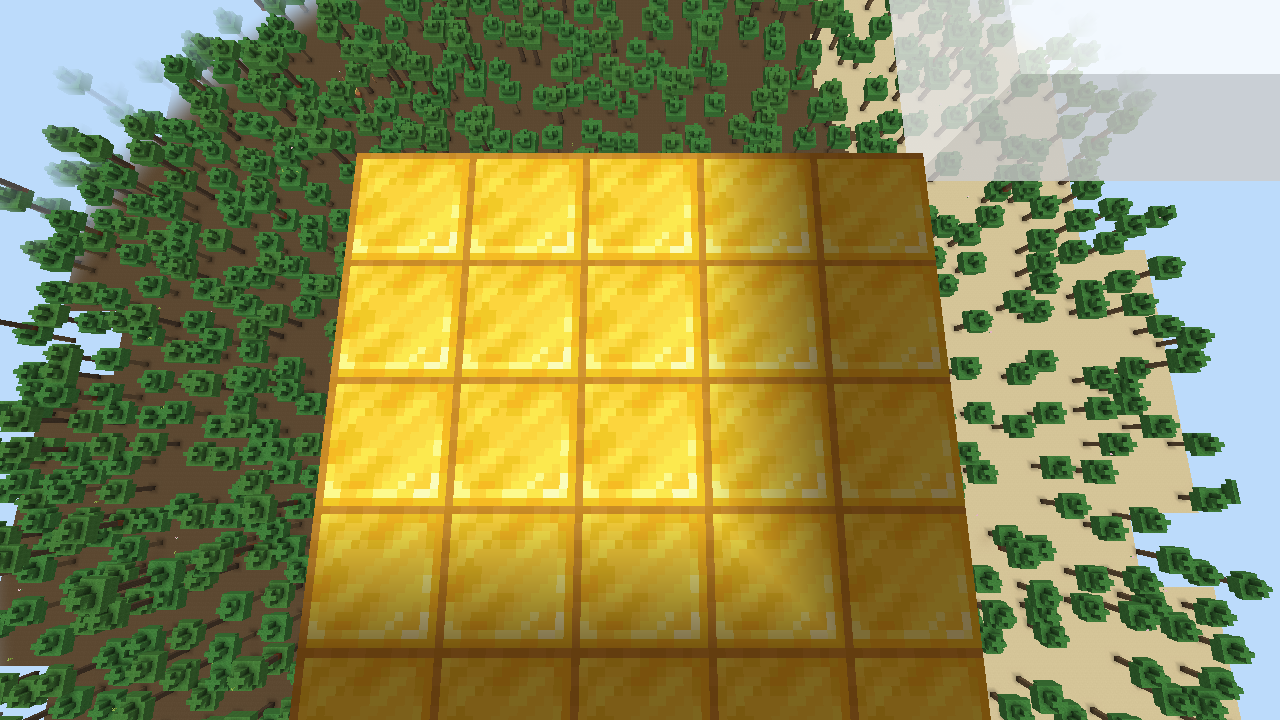
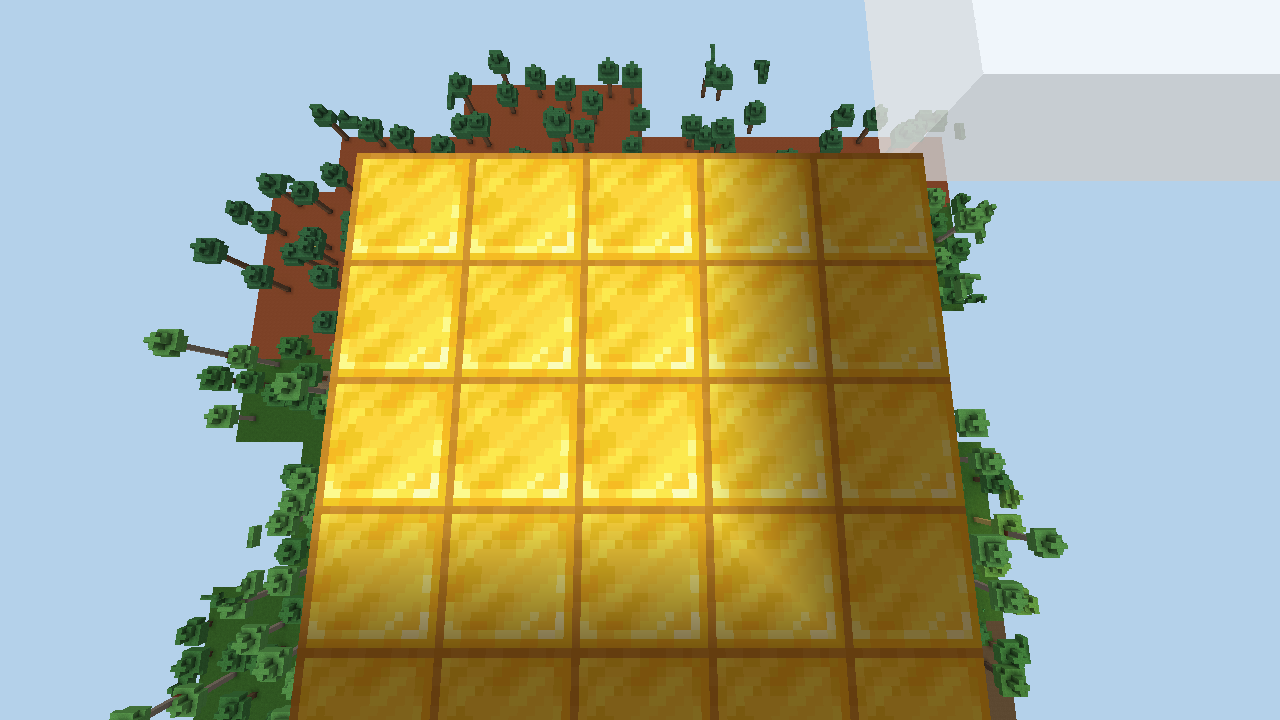
ci(captures): verification des entites deplacee apres les scenes (client relance)

diff --git a/tools/dev/captures/captures.py b/tools/dev/captures/captures.py
@@ -476,33 +476,6 @@ def main() -> int:
     commande("execute in cambocraft:cambodia run data get entity Cambocraft Pos")
     time.sleep(2)
 
-    # --- verification des systemes : entites et commande /cambocraft ---
-    # Le bloc d'or de la sanite doit disparaitre, sinon il reapparait dans les scenes.
-    commande(f"execute in cambocraft:cambodia run fill -2 {Y} -2 2 {Y} 2 air")
-
-    # --- verification des systemes : entites et commande /cambocraft ---
-    # ATTENTION : elle doit rester ENTOUREE d'une remise en etat de la camera et d'un
-    # delai, sinon les captures de scene qui suivent sont noires. Constat experimenté :
-    # sans ce bloc, 4 scenes sur 4 sont correctes ; avec lui sans remise en etat, 4 sur 4
-    # sont noires (250 octets, PNG d'une seule couleur).
-    print("== verification des systemes (entites + commandes) ==")
-    commande(f"execute in cambocraft:cambodia run fill -5 {Y} 0 5 {Y} 10 cambocraft:pierre_du_lotus_polie")
-    commande(f"execute in cambocraft:cambodia run summon cambocraft:artisan 2 {Y+1} 6")
-    commande(f"execute in cambocraft:cambodia run summon cambocraft:gardien -2 {Y+1} 6")
-    for sous in ("statut", "boss", "carnet"):
-        commande(f"cambocraft {sous}")
-    time.sleep(4)
-    commande(f"execute in cambocraft:cambodia run tp @a 0 {Y+4} 14 180 6")
-    time.sleep(10)
-    if capture_ecran(os.path.join(args.sortie, "entites.png")):
-        print("   capture : entites.png")
-    commande("execute in cambocraft:cambodia run kill @e[type=cambocraft:artisan]")
-    commande("execute in cambocraft:cambodia run kill @e[type=cambocraft:gardien]")
-    commande(f"execute in cambocraft:cambodia run fill -5 {Y} 0 5 {Y} 10 air")
-    # Remise en etat : la camera repart d'une position neutre avant la premiere scene.
-    commande(f"execute in cambocraft:cambodia run tp @a 0 {Y+30} 0 0 0")
-    time.sleep(6)
-
     captures = []
     for nom in [s.strip() for s in args.scenes.split(",") if s.strip()]:
         if nom not in SCENES:
@@ -544,6 +517,35 @@ def main() -> int:
         if capture_ecran(cible):
             captures.append(cible)
             print(f"   capture : {cible}")
+
+    # --- verification des systemes : entites et commandes, APRES les scenes ---
+    # L'invocation d'une entite fait tomber le contexte OpenGL logiciel de la CI : toutes
+    # les captures suivantes seraient noires. On la fait donc en dernier, dans un client
+    # fraichement relance, avant l'arret.
+    print("== verification des systemes (client relance) ==")
+    client.kill()
+    time.sleep(3)
+    client = demarrer_client(args.client, args.largeur, args.hauteur, f"127.0.0.1:{PORT}")
+    sortie_client = Flux(client, "client")
+    if not sortie_serveur.attendre(MOTIF_CONNEXION, 120, "reconnexion"):
+        print("   reconnexion impossible : verification des entites ignoree")
+    else:
+        time.sleep(25)
+        commande("gamemode spectator @a")
+        commande(f"execute in cambocraft:cambodia run forceload add -64 -64 64 64")
+        commande(f"execute in cambocraft:cambodia run fill -5 {Y} 0 5 {Y} 10 cambocraft:pierre_du_lotus_polie")
+        commande(f"execute in cambocraft:cambodia run summon cambocraft:artisan 2 {Y+1} 6")
+        commande(f"execute in cambocraft:cambodia run summon cambocraft:gardien -2 {Y+1} 6")
+        for sous in ("statut", "boss", "carnet"):
+            commande(f"cambocraft {sous}")
+        time.sleep(4)
+        commande(f"execute in cambocraft:cambodia run tp @a 0 {Y+4} 14 180 6")
+        time.sleep(10)
+        if capture_ecran(os.path.join(args.sortie, "entites.png")):
+            print("   capture : entites.png")
+        commande("execute in cambocraft:cambodia run kill @e[type=cambocraft:artisan]")
+        commande("execute in cambocraft:cambodia run kill @e[type=cambocraft:gardien]")
+    client.kill()
 
     print("== arret ==")
     commande("stop")
